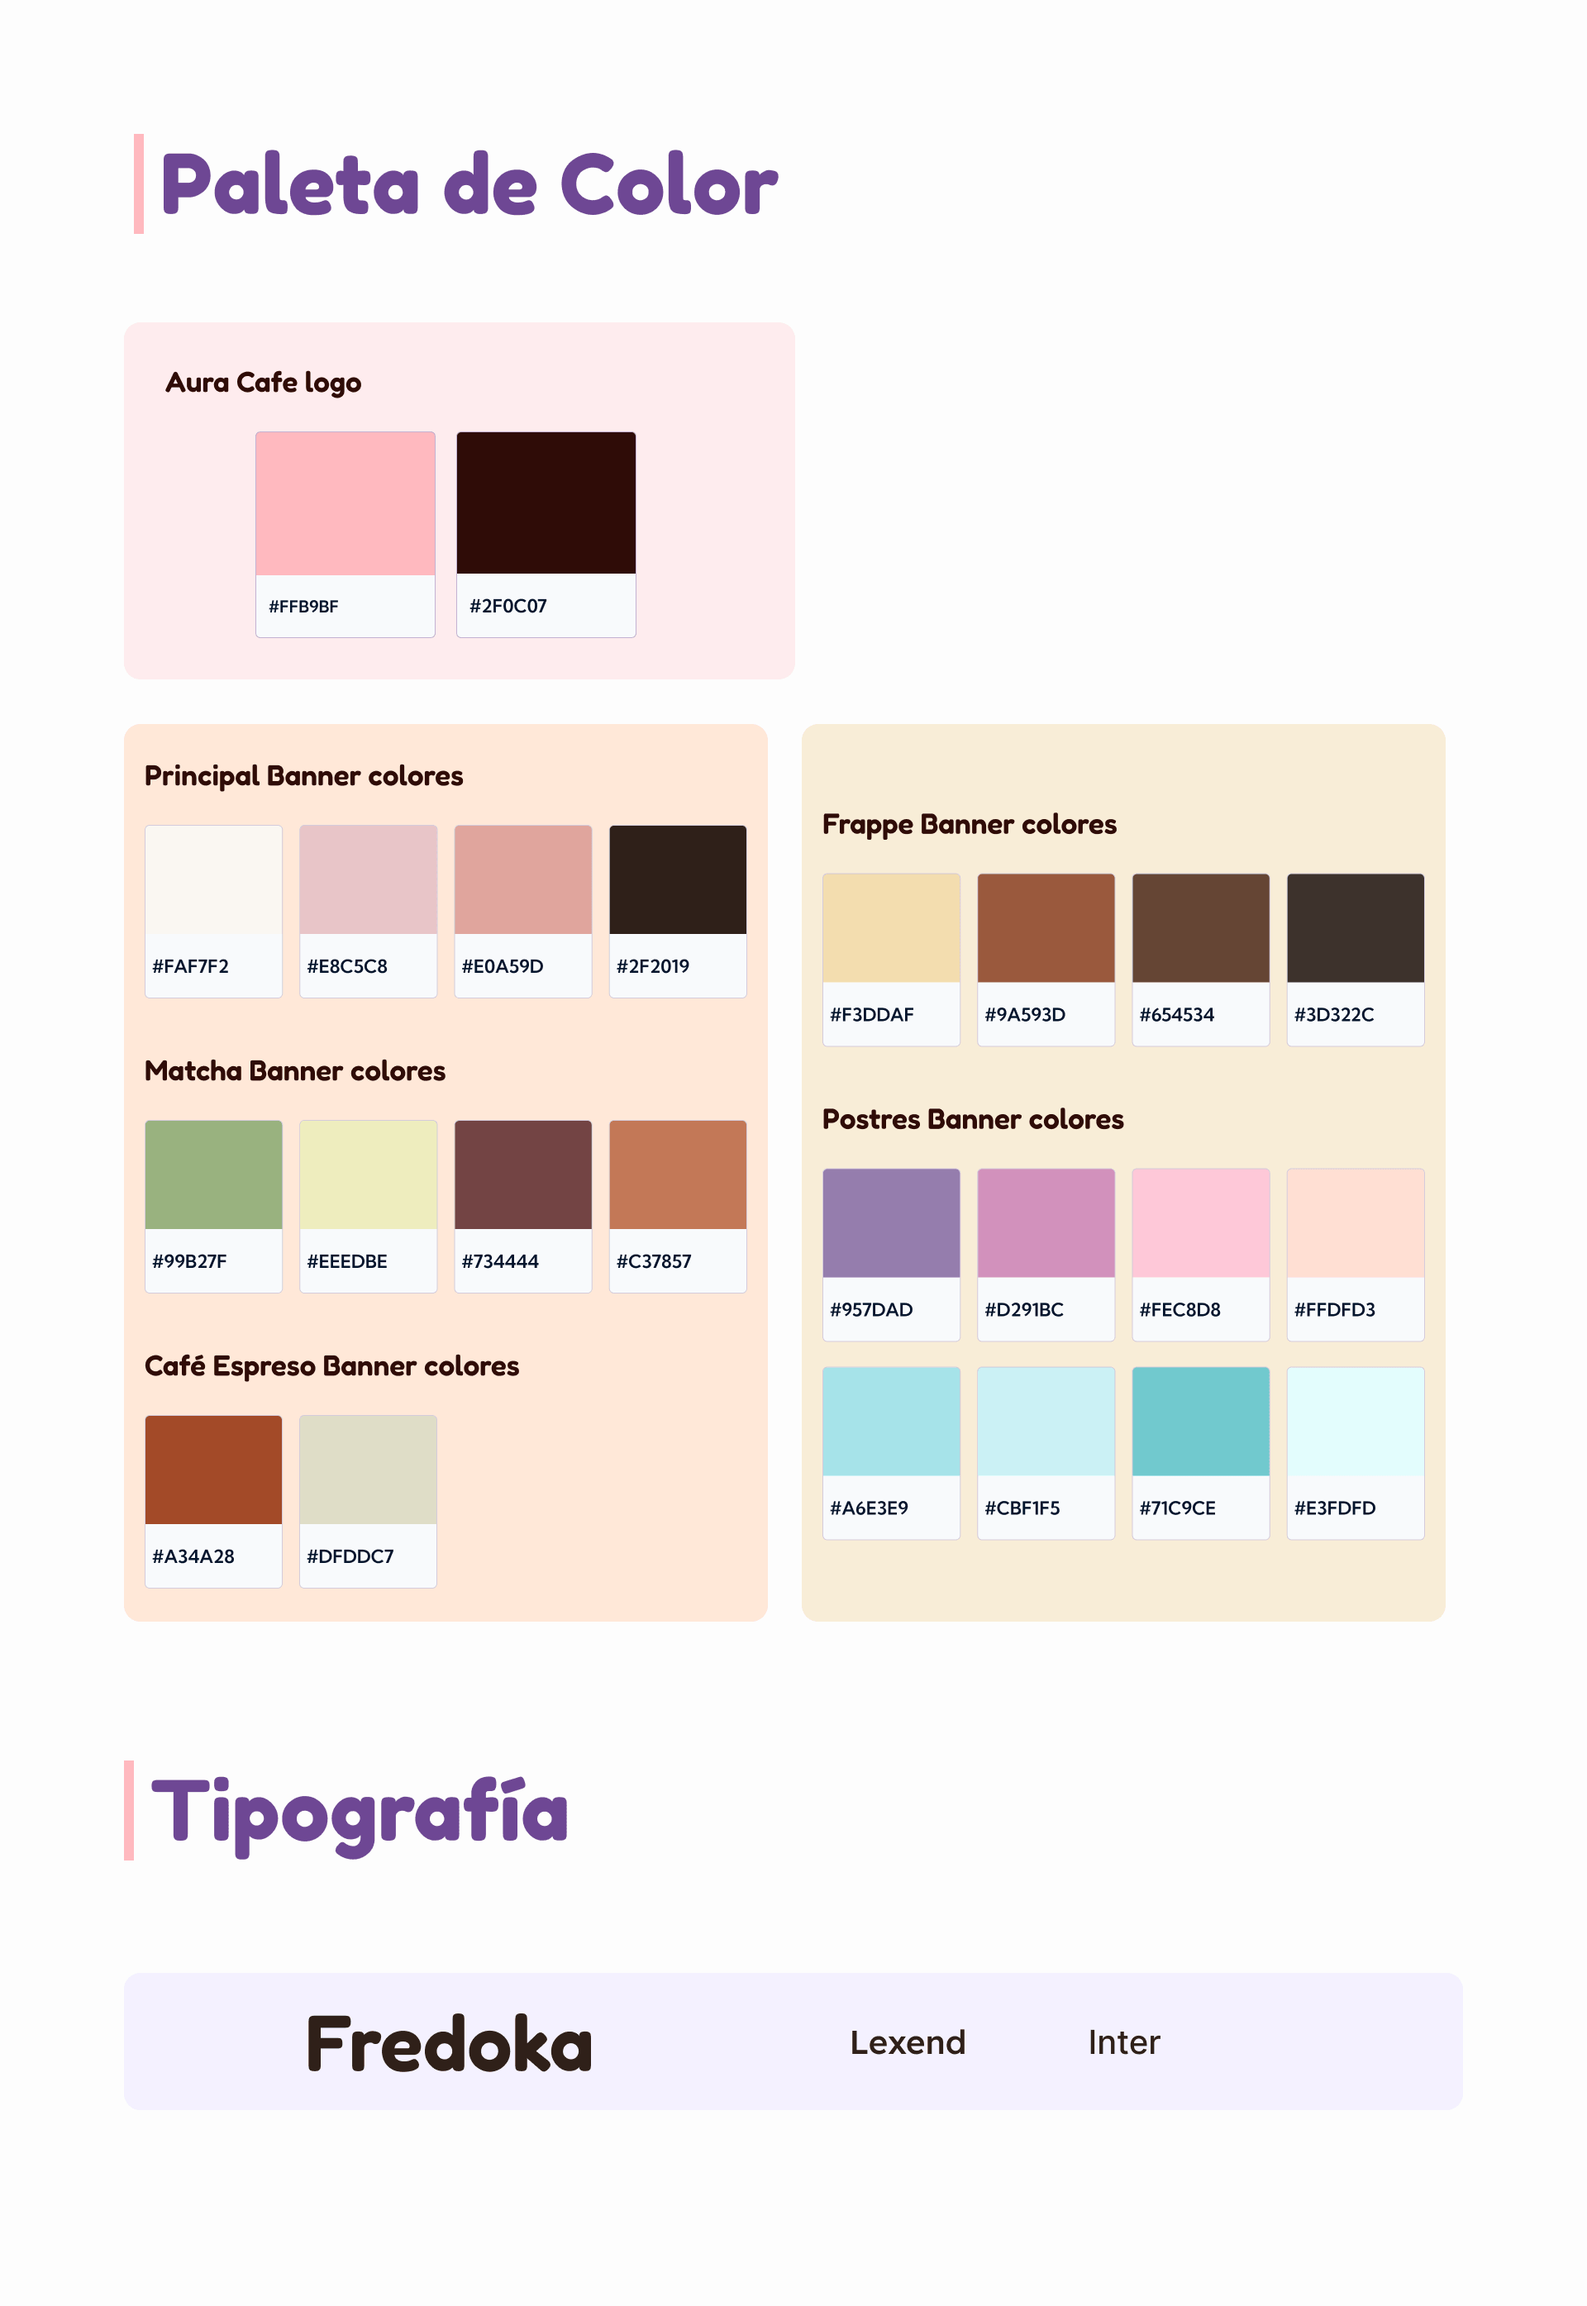
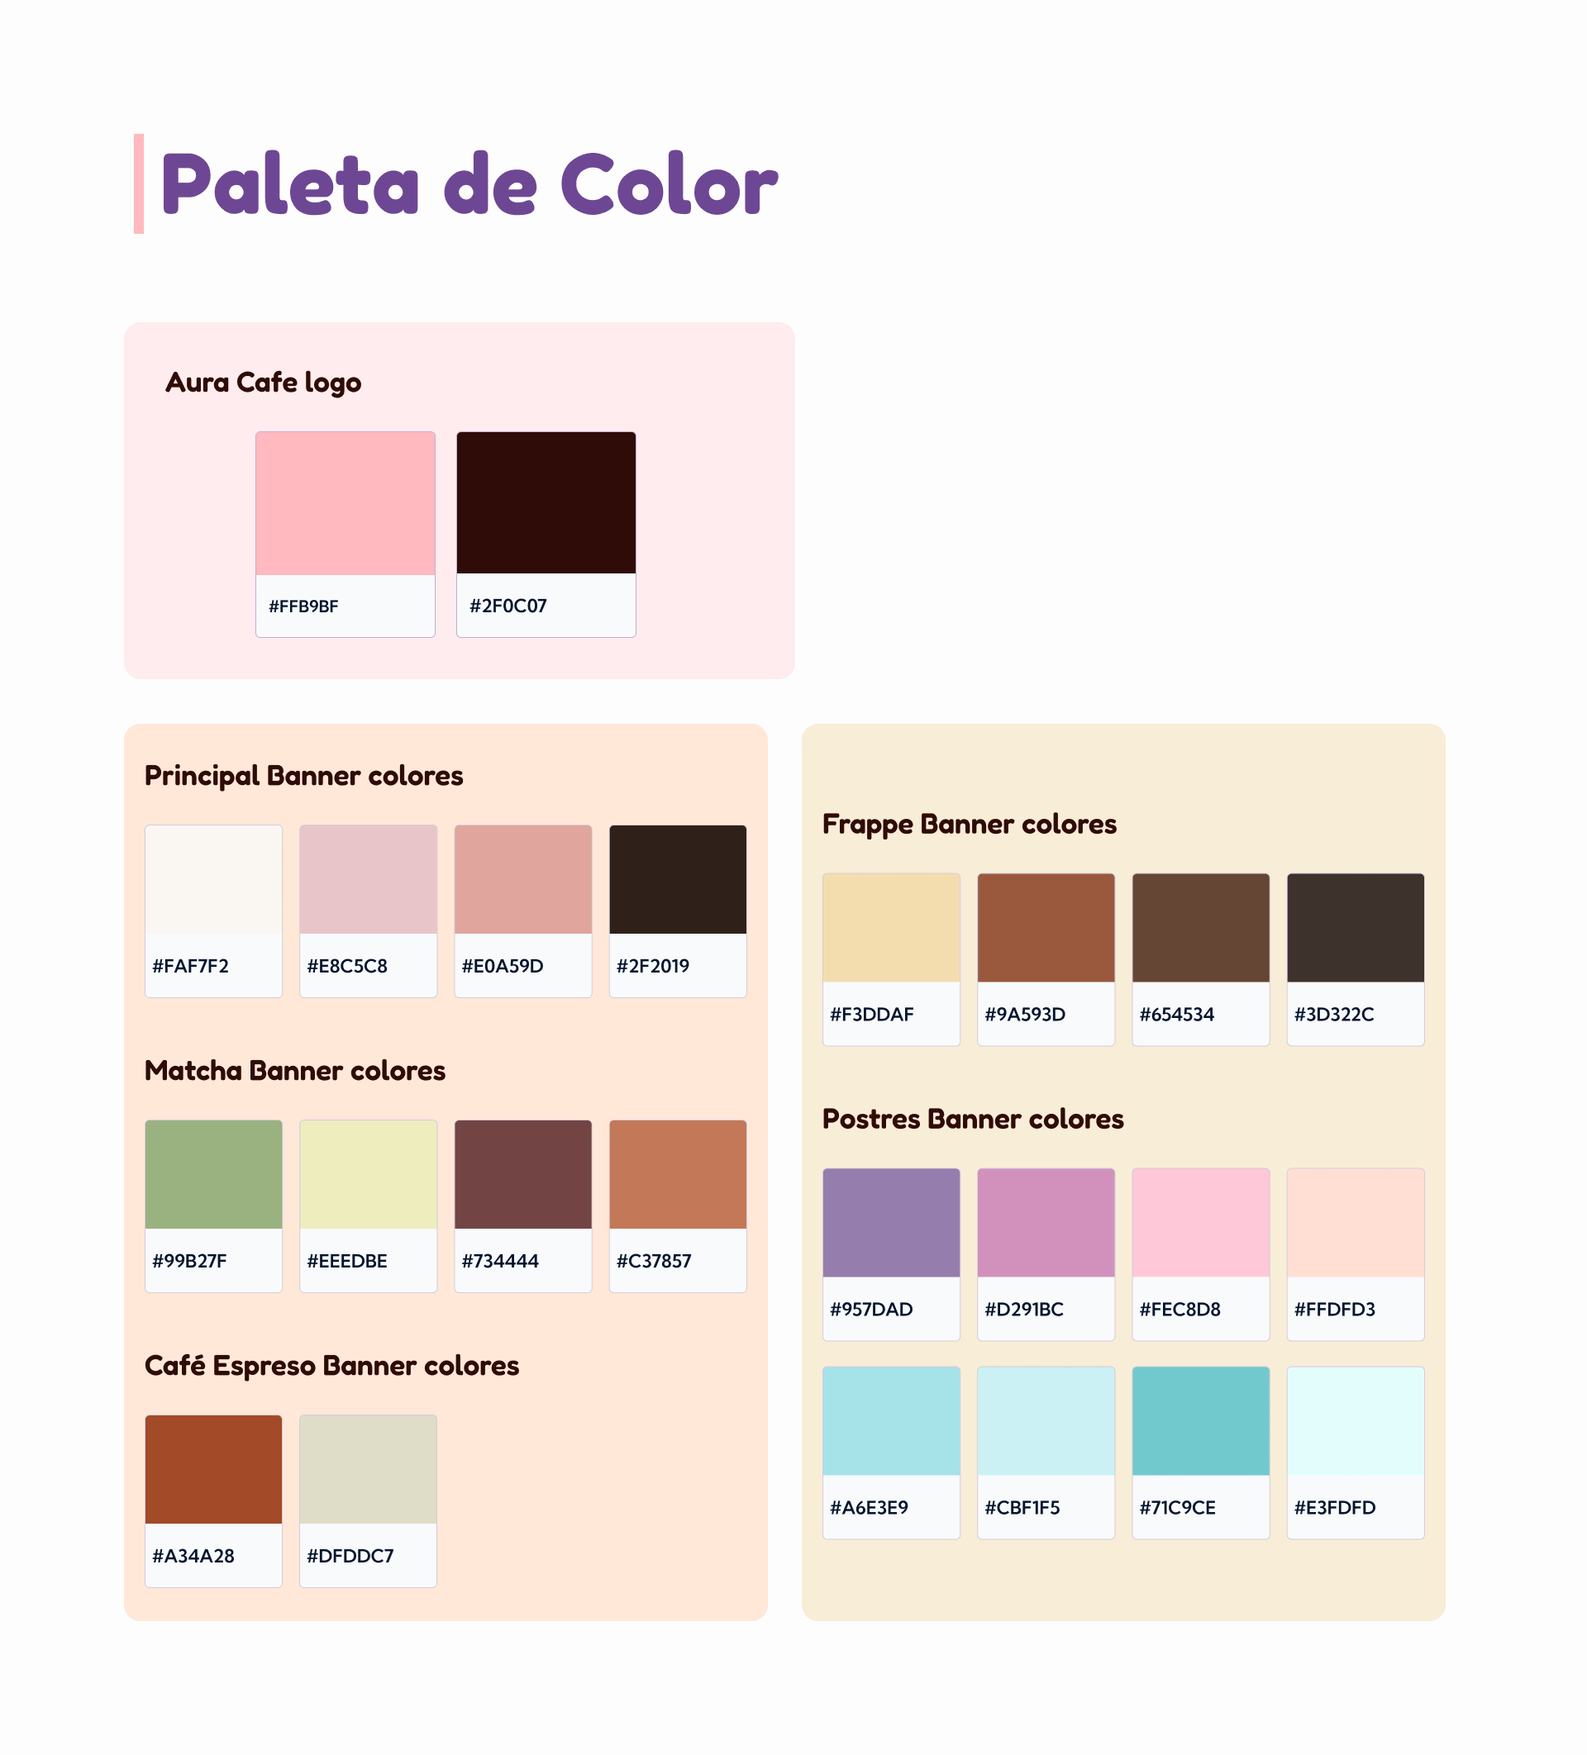
ajustes de proyecto y estetica

diff --git a/src/data/designProjects.js b/src/data/designProjects.js
@@ -2,7 +2,7 @@ export const graphicProjects = [
   {
     id: "auracafe",
     title: "AuraCafe",
-    description: "Diseño de landing page para una marca.",
+    description: "Diseño de identidad visual digital y una experiencia web para una cafetería.",
     image: "/projects/auraCafe.webp",
     category: "Diseño Web",
     gallery: [

diff --git a/src/css/global.css b/src/css/global.css
@@ -229,7 +229,9 @@ p {
 }
 
 .about-bg {
-    background-color: var(--light-celeste)
+    background-color: var(--light-celeste);
+    min-width: 100%;
+    position: absolute;
 }
 
 @layer components {

diff --git a/src/css/modalProject.css b/src/css/modalProject.css
@@ -13,6 +13,11 @@
     color: #fff;
 }
 
+html.project-gallery-open,
+html.project-gallery-open body {
+    overflow: hidden;
+}
+
 .project-gallery::backdrop {
     background: rgb(0 0 0 / 85%);
 }
